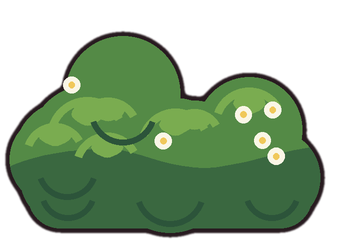
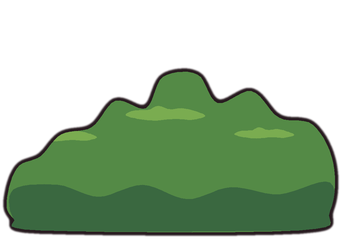
Refine forest depth and foliage

diff --git a/Assets/Scripts/World.cs b/Assets/Scripts/World.cs
@@ -45,18 +45,18 @@ public static class World
 
     static void Obstacle(float x, float y, float r) { obs.Add(new Ob { c = new Vector2(x, y), r = r }); }
 
-    static Transform Layer(Transform root, string sprite, float factor, float y, int order, string layer, float from, float to, bool followY, float tileW = -1)
+    static Transform Layer(Transform root, string sprite, float factor, float y, int order, string layer, float from, float to, bool followY, float tileW = -1, float scale = 1f)
     {
         var go = new GameObject("Layer_" + sprite); go.transform.SetParent(root, false);
         var p = go.AddComponent<Parallax>(); p.factor = factor; p.baseY = y; p.followY = followY;
         float t = tileW > 0 ? tileW : Tile;
-        for (float x = from; x < to; x += t) { var sr = Art.New(sprite, go.transform, new Vector3(x, 0, 0), order, layer); }
+        for (float x = from; x < to; x += t) { var sr = Art.New(sprite, go.transform, new Vector3(x, 0, 0), order, layer); sr.transform.localScale = Vector3.one * scale; }
         return go.transform;
     }
 
     // World-space tile widths for hand-drawn backgrounds whose native resolution/PPU differs from
     // the original procedural art (which was all authored at 2048px / 100ppu = 20.48 world units).
-    public const float TileMid = 27.15f, TileCanopy = 12.63f, TileGround = 16.71f;
+    public const float TileMid = 16.29f, TileCanopy = 12.63f, TileGround = 16.71f;
 
     public static void Build(Transform root, Transform cam)
     {
@@ -65,12 +65,12 @@ public static class World
         // --- backdrop ---
         var sky = Art.New("bg_sky", cam, new Vector3(0, 0, 10), -100, "Background");
         sky.transform.localScale = new Vector3(600, 4.2f, 1);
-        Layer(root, "bg_far", 0.86f, 0.25f, -90, "Background", -Tile, len * 0.14f + 2 * Tile, true);
-        Layer(root, "bg_mid", 0.62f, 0.12f, -80, "Background", -TileMid, len * 0.38f + 2 * TileMid, true, TileMid);
+        Layer(root, "bg_far", 0.92f, 0.25f, -90, "Background", -Tile, len * 0.14f + 2 * Tile, true);
+        Layer(root, "bg_mid", 0.82f, 0.12f, -80, "Background", -TileMid, len * 0.38f + 2 * TileMid, true, TileMid, 0.75f);
         var ground = new GameObject("Ground").transform; ground.SetParent(root, false);
         for (float x = -2 * TileGround; x < len + TileGround; x += TileGround) Art.New("bg_ground", ground, new Vector3(x, -0.2f, 0), -50, "Background");
-        Layer(root, "bg_canopy", 0.12f, 5.15f, -10, "Foreground", -TileCanopy, len * 0.88f + 2 * TileCanopy, true, TileCanopy);
-        Layer(root, "bg_fg", -0.3f, -5.95f, 0, "Foreground", -Tile, len * 1.3f + 2 * Tile, true);
+        Layer(root, "bg_canopy", 0.65f, 5.15f, -10, "Foreground", -TileCanopy, len * 0.88f + 2 * TileCanopy, true, TileCanopy);
+        Layer(root, "bg_fg", 0.48f, -5.95f, 0, "Foreground", -Tile, len * 1.3f + 2 * Tile, true);
         var vig = Art.New("fx_vignette", cam, new Vector3(0, 0, 9), 100, "Foreground");
         vig.transform.localScale = new Vector3(4.6f, 3.6f, 1);
         // --- light shafts ---
@@ -87,16 +87,31 @@ public static class World
         string[] trunks = { "pr_trunk_a", "pr_trunk_b", "pr_trunk_c", "pr_trunk_b" };
         for (float x = -9; x < len; x += R(3.4f, 6.2f))
             Prop(back, trunks[rng.Next(trunks.Length)], x, R(-1.05f, -0.72f), R(0.95f, 1.12f), Chance(0.5f));
-        string[] bushes = { "pr_bush_a", "pr_bush_b", "pr_bush_c", "pr_fern_a", "pr_fern_b", "pr_bush_b" };
-        for (float x = -9; x < len; x += R(1.6f, 3.4f))
-            Prop(back, bushes[rng.Next(bushes.Length)], x, R(-1.2f, -0.92f), R(0.9f, 1.15f), Chance(0.5f), 1.6f);
+        string[] bushes = { "pr_bush_a", "pr_bush_b", "pr_bush_c", "pr_fern_a", "pr_fern_b" };
+        for (float x = -9; x < len;)
+        {
+            float clusterWidth = R(2.4f, 5.4f);
+            int clusterCount = rng.Next(1, 4);
+            for (int i = 0; i < clusterCount; i++)
+            {
+                float position = x + ((i + R(0.15f, 0.85f)) / clusterCount) * clusterWidth;
+                Prop(back, bushes[rng.Next(bushes.Length)], position, R(-1.22f, -0.96f), R(0.78f, 1.2f), Chance(0.5f));
+            }
+            x += clusterWidth + R(2f, 4.8f);
+        }
         float[] ruinPillars = { 50.5f, 61f, 70.5f, 122f, 127f, 140.5f, -5.5f };
         foreach (var x in ruinPillars) Prop(back, Chance(0.5f) ? "pr_pillar_tall" : "pr_pillar_mid", x, R(-1.12f, -0.95f));
         float[] walls = { 56f, 66f, 132f, -8.5f, 143.5f, 145.5f };
         foreach (var x in walls) Prop(back, "pr_wall", x, -1.02f, 1.1f, Chance(0.5f));
         // dense edges so the level visibly begins and ends
         for (int i = 0; i < 4; i++) { Prop(back, trunks[i % 3], MinX - 2.2f - i * 0.5f, -1.3f - i * 0.75f, 1.15f); Prop(back, trunks[(i + 1) % 3], MaxX + 2.6f + i * 0.5f, -1.3f - i * 0.75f, 1.15f, true); }
-        for (int i = 0; i < 5; i++) { Prop(back, "pr_bush_c", MinX - 1.6f, -1.5f - i * 0.6f, 1.1f, false, 1.5f); Prop(back, "pr_bush_c", MaxX + 1.9f, -1.5f - i * 0.6f, 1.1f, true, 1.5f); }
+        for (int i = 0; i < 3; i++)
+        {
+            float leftX = MinX - 1.4f + i * 0.85f;
+            float rightX = MaxX + 1.1f + i * 0.85f;
+            Prop(back, bushes[rng.Next(bushes.Length)], leftX, R(-1.65f, -1.05f), R(0.9f, 1.2f), Chance(0.5f));
+            Prop(back, bushes[rng.Next(bushes.Length)], rightX, R(-1.65f, -1.05f), R(0.9f, 1.2f), Chance(0.5f));
+        }
         // --- obstacles in the lane (with collision) ---
         var lane = new GameObject("Lane").transform; lane.SetParent(root, false);
         void Rock(float x, float y) { Prop(lane, "pr_rock_a", x, y, R(0.9f, 1.1f), Chance(0.5f)); Obstacle(x, y + 0.12f, 0.55f); }

diff --git a/AgentScripts/art/gen_props.py b/AgentScripts/art/gen_props.py
@@ -15,28 +15,47 @@ def trunk(name,wf=1.0,seed=1,knot=True):
             t.line([(X(x),y0),(X(x+random.uniform(-5,5)),y0+L/2),(X(x+random.uniform(-4,4)),y0+L)],BKD,3,True)
         if knot: 
             t.ell(X(104),250,X(134),296,BKD); t.ell(X(110),258,X(128),288,(40,28,36))
-        for (mx,my,s) in ((78,470,1.0),(150,520,0.8),(96,120,0.7),(40,566,0.8),(190,560,0.9)):
-            t.blob([(X(mx),my),(X(mx+30*s),my-16*s),(X(mx+56*s),my+2*s),(X(mx+44*s),my+26*s),(X(mx+10*s),my+24*s)],MOSS)
-            t.blob([(X(mx+8*s),my+8*s),(X(mx+30*s),my+4*s),(X(mx+40*s),my+20*s),(X(mx+12*s),my+24*s)],MOSSD)
+        patches={1:((74,505,0.9),),2:((126,535,0.82),),3:((66,520,0.78),(150,548,0.68))}
+        for mx,my,s in patches.get(seed,((74,505,0.85),)):
+            edge=[(-14,7),(-12,1),(-6,-3),(1,-5),(8,-11),(15,-8),(20,-3),(28,-5),(35,-1),(43,5),(39,10),(30,12),(19,10),(9,13),(-2,11)]
+            shade=[(-12,7),(-4,6),(5,8),(17,7),(29,9),(40,6),(43,9),(34,13),(22,14),(8,13),(-4,12)]
+            t.blob([(X(mx+dx*s),my+dy*s) for dx,dy in shade],MOSSD,6)
+            t.blob([(X(mx+dx*s),my+dy*s) for dx,dy in edge],MOSS,6)
+            for dx in (2,17,31):
+                t.blob([(X(mx+dx*s),my+2*s),(X(mx+(dx+2)*s),my-4*s),(X(mx+(dx+7)*s),my-7*s),(X(mx+(dx+8)*s),my-1*s),(X(mx+(dx+4)*s),my+3*s)],MOSSL,5)
+            t.line([(X(mx-4*s),my+7*s),(X(mx+11*s),my+6*s),(X(mx+25*s),my+8*s)],MOSSD,1.6,True)
+        if seed==2:
+            t.line([(X(145),318),(X(138),341),(X(146),365),(X(139),391),(X(148),414)],MOSSD,2.2,True)
+            for px,py,side in ((141,336,-1),(142,357,1),(141,382,-1),(144,404,1)):
+                leaf=[(px,py),(px+side*5,py-6),(px+side*13,py-8),(px+side*10,py-2),(px+side*3,py+3)]
+                t.blob([(X(x),y) for x,y in leaf],MOSS,6)
+                t.line([(X(px),py),(X(px+side*8),py-3)],MOSSL,1.2,True)
     c.inside(sh); c.outline(3.0); c.save(name,(120,584))
 trunk('pr_trunk_a',1.0,1); trunk('pr_trunk_b',0.72,2,False); trunk('pr_trunk_c',1.25,3)
-def bush(name,seed,w=170,h=120,flowers=True):
-    random.seed(seed); c=C(w,h)
-    clumps=[(random.uniform(26,w-26),random.uniform(h*0.38,h*0.72),random.uniform(20,30)) for _ in range(9)]+[(w*0.2,h*0.74,24),(w*0.5,h*0.72,30),(w*0.8,h*0.74,24)]
-    for x,y,r in clumps: c.circ(x,y,r,G2)
-    c.rr(14,h*0.6,w-14,h-6,16,G2)
+def bush(name,seed,w=170,h=120):
+    c=C(w,h,out=2,ss=3)
+    profiles={
+        3:[(0.02,0.84),(0.05,0.7),(0.12,0.65),(0.18,0.56),(0.27,0.53),(0.34,0.42),(0.43,0.45),(0.48,0.32),(0.58,0.31),(0.64,0.43),(0.74,0.38),(0.82,0.49),(0.92,0.52),(0.98,0.68),(0.97,0.88),(0.88,0.96),(0.12,0.96),(0.04,0.91)],
+        5:[(0.02,0.82),(0.06,0.68),(0.15,0.6),(0.22,0.48),(0.31,0.45),(0.38,0.52),(0.47,0.39),(0.57,0.35),(0.63,0.48),(0.72,0.43),(0.79,0.52),(0.9,0.5),(0.98,0.67),(0.96,0.89),(0.86,0.96),(0.14,0.96),(0.04,0.91)],
+        8:[(0.02,0.83),(0.04,0.69),(0.13,0.64),(0.2,0.55),(0.29,0.58),(0.34,0.46),(0.44,0.43),(0.53,0.5),(0.59,0.37),(0.69,0.4),(0.76,0.51),(0.84,0.46),(0.94,0.54),(0.99,0.7),(0.96,0.9),(0.88,0.96),(0.12,0.96),(0.03,0.91)]
+    }
+    silhouette=[(x*w,y*h) for x,y in profiles[seed]]
+    c.blob(silhouette,G2,7)
     def sh(t):
-        t.blob([(0,h*0.72),(w*0.3,h*0.62),(w*0.6,h*0.7),(w,h*0.62),(w,h),(0,h)],G1)
-        for x,y,r in clumps[:7]:
-            t.arc(x-r*0.7,y-r*0.8,x+r*0.7,y+r*0.6,200,330,G3,4)
-            t.blob([(x-8,y-r*0.5),(x,y-r*0.8),(x+8,y-r*0.5),(x,y-r*0.3)],G3,6)
-        for x,y,r in clumps[7:]: t.arc(x-r*0.6,y-r*0.3,x+r*0.6,y+r*0.9,20,160,(44,84,58),3)
-    c.inside(sh); c.outline(2.8)
-    if flowers:
-        for _ in range(6):
-            x=random.uniform(24,w-24); y=random.uniform(h*0.3,h*0.7); c.circ(x,y,4.2,(250,246,230)); c.circ(x,y,1.6,(240,200,90))
+        shadow=[(0.04,0.79),(0.17,0.77),(0.29,0.82),(0.42,0.77),(0.55,0.83),(0.68,0.78),(0.82,0.81),(0.97,0.76),(0.97,0.93),(0.88,0.96),(0.12,0.96),(0.04,0.91)]
+        t.blob([(x*w,y*h) for x,y in shadow],G1,7)
+        patches={
+            3:[(0.19,0.57,0.1),(0.49,0.48,0.12),(0.78,0.56,0.09)],
+            5:[(0.22,0.56,0.09),(0.53,0.49,0.1),(0.82,0.56,0.08)],
+            8:[(0.17,0.58,0.08),(0.43,0.52,0.1),(0.7,0.48,0.09),(0.87,0.59,0.07)]
+        }
+        for cx,cy,s in patches[seed]:
+            rx=w*s; ry=h*s*0.34
+            leaf_mass=[(-1,0),(-0.82,-0.45),(-0.45,-0.55),(-0.2,-0.95),(0.08,-0.6),(0.42,-0.7),(0.8,-0.28),(0.94,0.12),(0.62,0.46),(0.2,0.38),(-0.28,0.54),(-0.72,0.36)]
+            t.blob([(w*cx+dx*rx,h*cy+dy*ry) for dx,dy in leaf_mass],G3,7)
+    c.inside(sh); c.outline(2.2)
     c.save(name,(w/2,h-10))
-bush('pr_bush_a',3); bush('pr_bush_b',5,130,96,False); bush('pr_bush_c',8,200,130)
+bush('pr_bush_a',3); bush('pr_bush_b',5,130,96); bush('pr_bush_c',8,200,130)
 def fern(name,seed):
     random.seed(seed); c=C(120,100)
     for i,ang in enumerate((-72,-44,-18,8,34,60)):

diff --git a/AgentScripts/art/pack.py b/AgentScripts/art/pack.py
@@ -43,10 +43,13 @@ for n in names:
     e=np.pad(im,((2,2),(2,2),(0,0)),mode='edge'); atlas[py-2:py+h+2,px-2:px+w+2]=e
     m=meta[n]; lines.append('%s %d %d %d %d %.4f %.4f %d %d'%(n,px,AHp-py-h,w,h,m['px'],m['py'],m['ppu'],border.get(n,0)))
 Image.fromarray(atlas,'RGBA').save(os.path.join(res,'Art','atlas.png'))
+preserved_backgrounds={'bg_canopy','bg_ground','bg_mid'}
 for n in meta:
     if n.startswith('bg_'):
-        Image.open(os.path.join(OUTDIR,n+'.png')).save(os.path.join(res,'Art',n+'.png'))
+        if n not in preserved_backgrounds: Image.open(os.path.join(OUTDIR,n+'.png')).save(os.path.join(res,'Art',n+'.png'))
         m=meta[n]; lines.append('%s -1 0 %d %d %.4f %.4f %d 0'%(n,m['w'],m['h'],m['px'],m['py'],m['ppu']))
 open(os.path.join(res,'Art','atlas_map.txt'),'w').write('\n'.join(lines))
-import shutil; shutil.copy('/usr/share/fonts/truetype/dejavu/DejaVuSans-Bold.ttf',os.path.join(res,'Fonts','GameFont.ttf'))
+import shutil
+font_path=os.path.join(res,'Fonts','GameFont.ttf')
+if not os.path.exists(font_path): shutil.copy('/usr/share/fonts/truetype/dejavu/DejaVuSans-Bold.ttf',font_path)
 print('sprites',len(lines))
